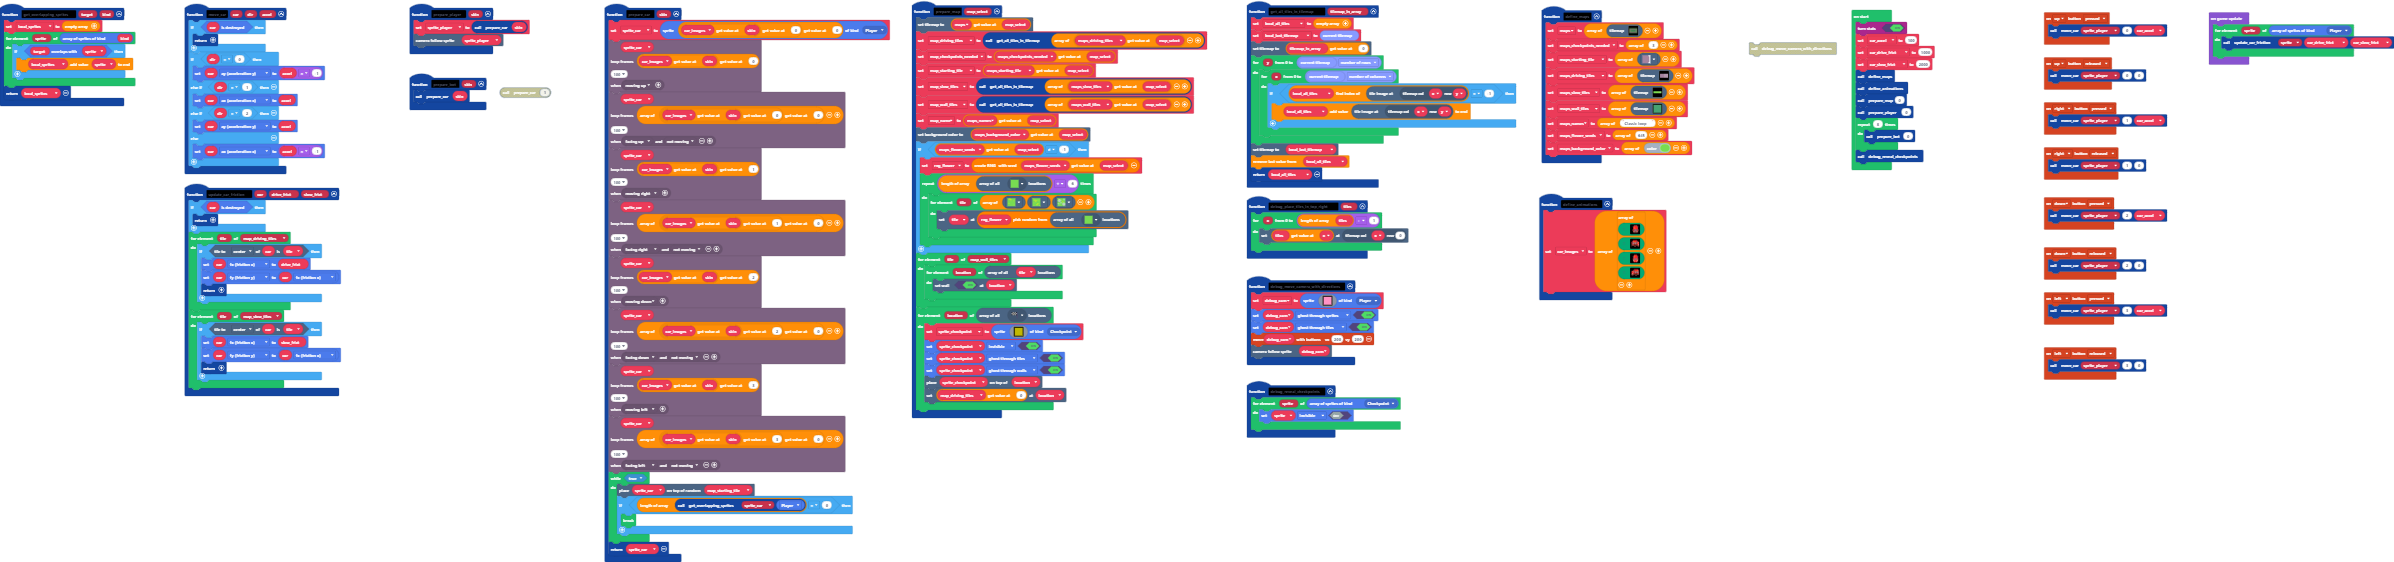
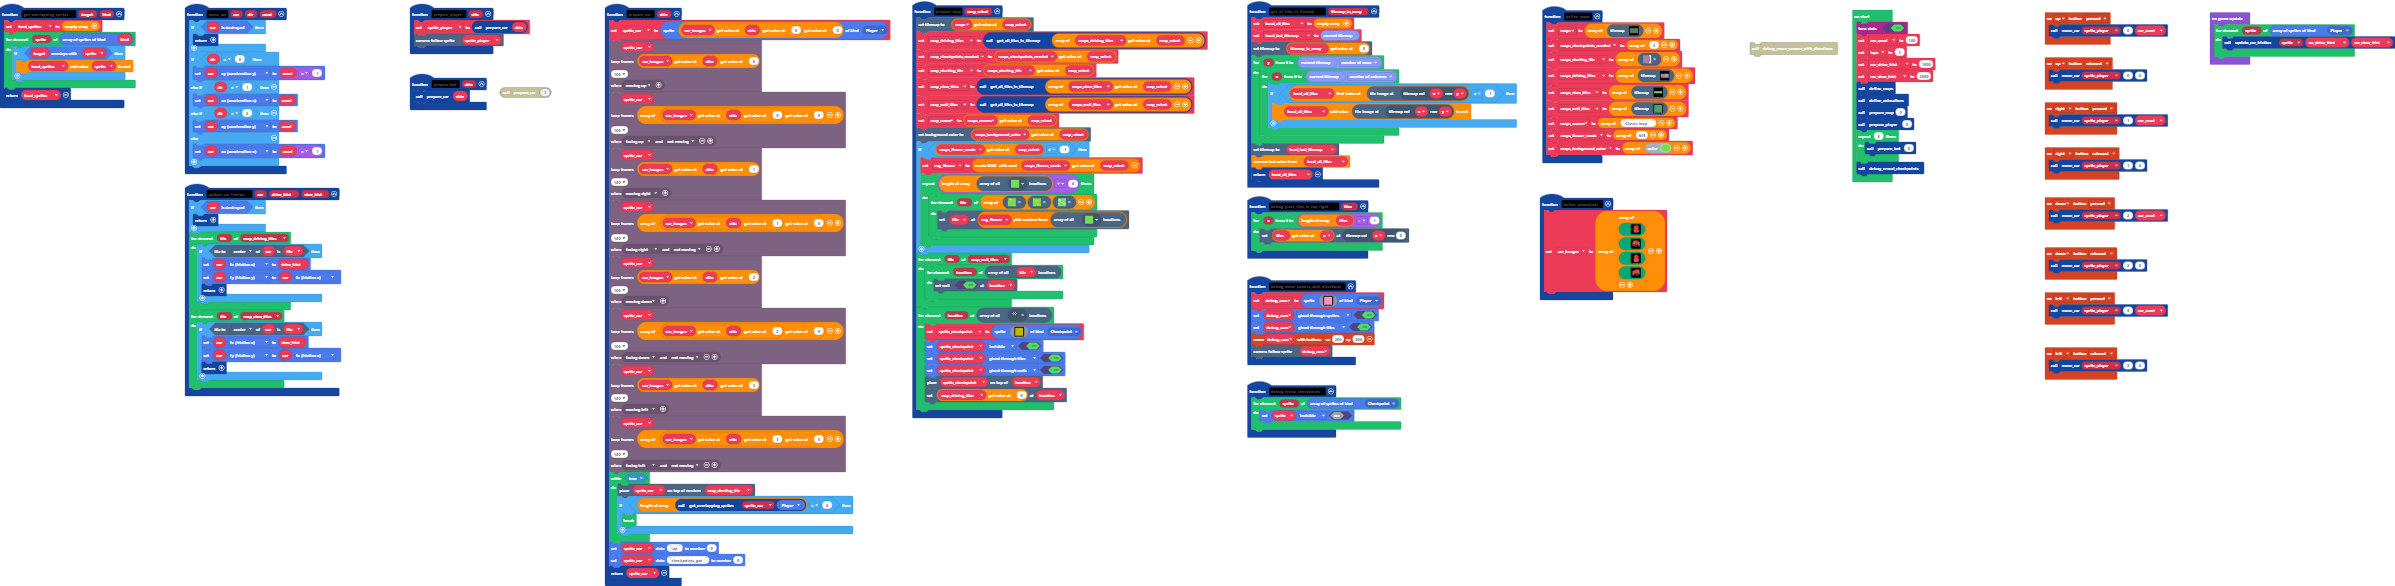
Add sprite data

Changed region(s): [[0.0, 0.0, 1.0, 0.9982], [0.6182, 0.3327, 0.7109, 0.5445]]

diff --git a/main.ts b/main.ts
@@ -182,6 +182,8 @@ function prepare_car (skin: number) {
             break;
         }
     }
+    sprites.setDataNumber(sprite_car, "lap", 0)
+    sprites.setDataNumber(sprite_car, "checkpoints_got", 0)
     return sprite_car
 }
 controller.up.onEvent(ControllerButtonEvent.Released, function () {
@@ -241,6 +243,7 @@ let debug_cam: Sprite = null
 let car_accel = 0
 stats.turnStats(true)
 car_accel = 100
+let laps = 3
 let car_drive_frict = 1000
 let car_slow_frict = 2000
 define_maps()
